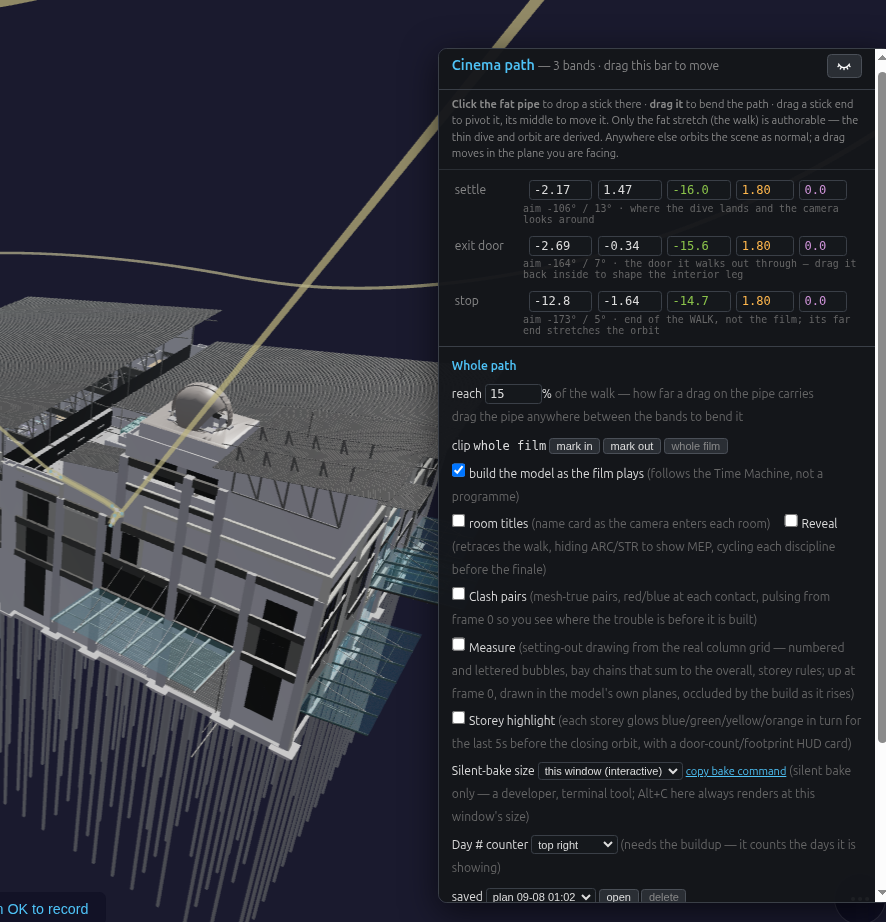
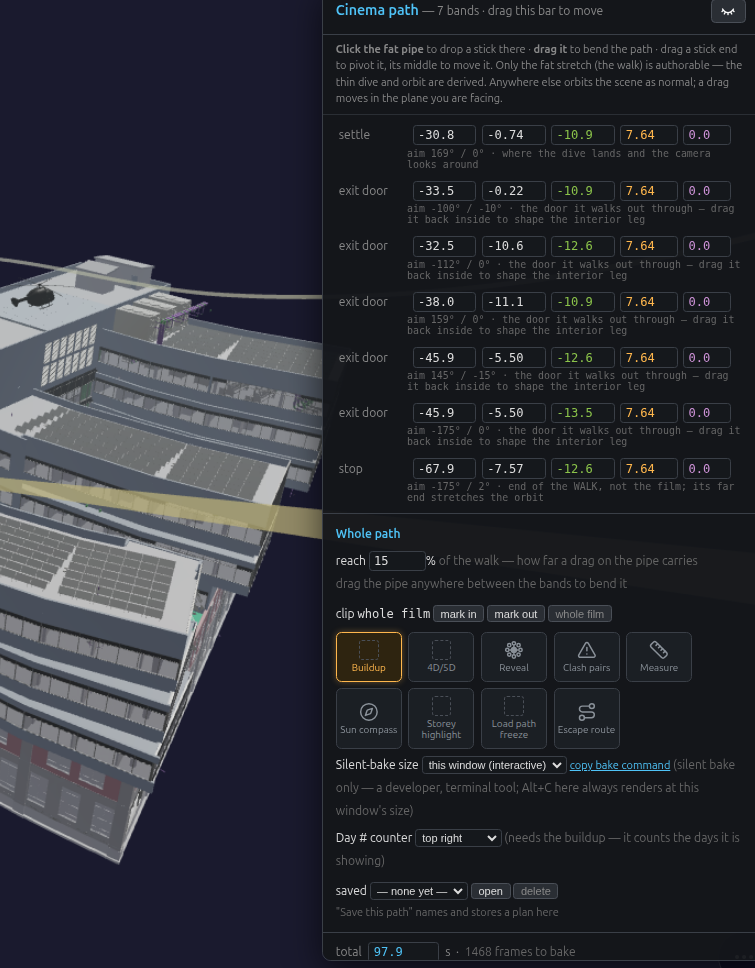
Deployed 1b3b057d1 with MkDocs version: 1.6.1

diff --git a/BIMUserGuide/index.html b/BIMUserGuide/index.html
@@ -3392,7 +3392,7 @@ in canvas right beside it. One keypress, one stick, position and aim both set:</
   warning yet.</li>
 </ul>
 <p><img alt="The Cinema path panel with Clash pairs ticked and Silent-bake size set to &quot;this window (interactive)&quot; — the Whole path block showing reach 15%, clip &quot;whole film&quot;, build-the-model and room titles and Reveal and Clash pairs all checked, the Silent-bake size dropdown, the Day # counter set to top left, a saved plan selected, and the derived total 281.6s / 4225 frames line below" src="../img/viewer/filmmaker-clash-and-bake-size.png" /></p>
-<p><img alt="The Cinema path panel with the full option set — the three derived bands (settle, exit door, stop) each with x / z / height / length and aim angles, then Whole path: reach 15%, clip &quot;whole film&quot;, &quot;build the model as the film plays&quot; ticked, and the unticked room titles, Reveal, Clash pairs, Measure and Storey highlight boxes each carrying its own one-line explanation, above Silent-bake size &quot;this window (interactive)&quot; with its copy-bake-command link, Day # counter &quot;top right&quot;, and a saved plan" src="../img/viewer/filmmaker-measure-storey-panel.png" /></p>
+<p><img alt="The Cinema path panel with the full option set — seven bands (settle, five exit doors, stop) each with x / z / height / length and aim angles, then Whole path: reach 15%, clip &quot;whole film&quot; with mark in / mark out, and one button per film feature — Buildup (on), 4D/5D, Reveal, Clash pairs, Measure, Sun compass, Storey highlight, Load path freeze and Escape route — above Silent-bake size &quot;this window (interactive)&quot; with its copy-bake-command link, Day # counter &quot;top right&quot;, the saved-plan list, and the derived total 97.9 s · 1468 frames to bake" src="../img/viewer/filmmaker-measure-storey-panel.png" /></p>
 <ul>
 <li><strong>saved</strong> — plans you stored for this building, with <strong>open</strong> and <strong>delete</strong>. Choosing one and pressing
   <strong>open</strong> replaces the path you are editing; the line under it says how many bands, how many hose pulls,
